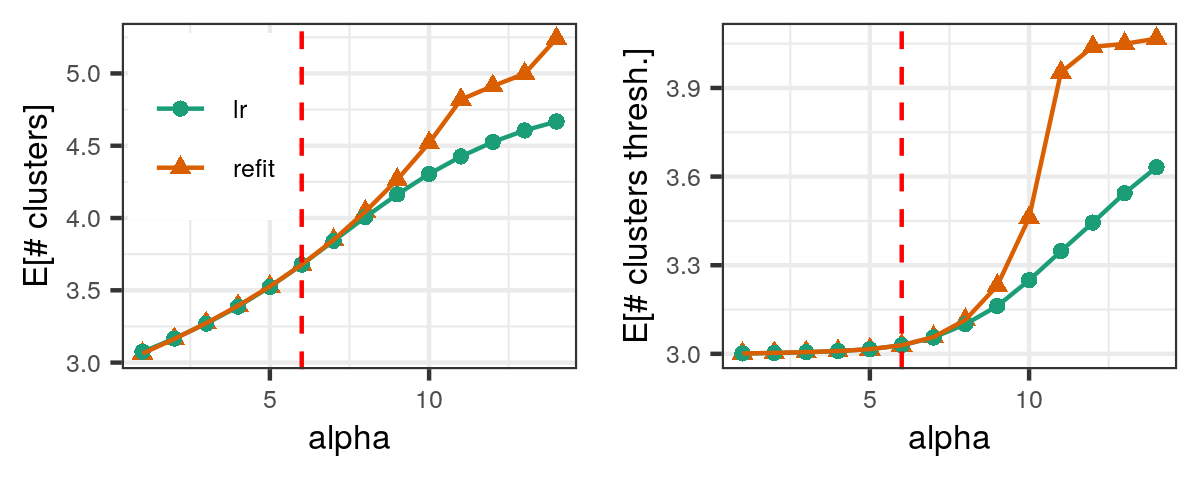
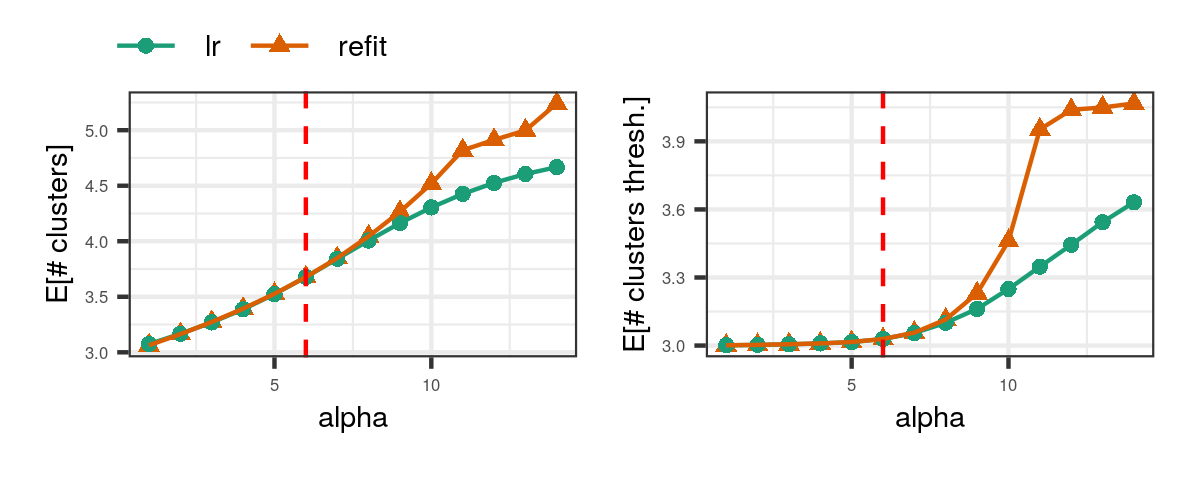
introduce patchwork package for figure layouts

diff --git a/writing/journal_paper/iris_experiments.tex b/writing/journal_paper/iris_experiments.tex
@@ -14,11 +14,33 @@
 \begin{knitrout}
 \definecolor{shadecolor}{rgb}{0.969, 0.969, 0.969}\color{fgcolor}\begin{figure}[!h]
 
-{\centering \includegraphics[width=0.98\linewidth,height=0.784\linewidth]{figure/iris_fit-1} 
+{\centering \includegraphics[width=0.588\linewidth,height=0.470\linewidth]{figure/iris_fit-1} 
 
 }
 
-\caption[The iris fit]{The iris fit.  }\label{fig:iris_fit}
+\caption[The iris data in principal component space]{The iris data in principal component space. 
+                      Colors denote inferred memberships and
+                      ellipses are estimated covariances 
+                      at $\alpha=6$.}\label{fig:iris_fit}
+\end{figure}
+
+
+\end{knitrout}
+
+
+\begin{knitrout}
+\definecolor{shadecolor}{rgb}{0.969, 0.969, 0.969}\color{fgcolor}\begin{figure}[!h]
+
+{\centering \includegraphics[width=0.980\linewidth,height=0.392\linewidth]{figure/iris_alpha_sens-1} 
+
+}
+
+\caption[The expected number of clusters in the iris data as $\alpha$ varies]{The expected number of clusters in the iris data as $\alpha$ varies. 
+We compute the linear approximation at $\alpha=6$ and
+extrapolate the expected number of clusters using the
+linear approximation (green).
+We compare against the expected number of clusters obtained by refitting the model at each $\alpha$ (orange). 
+}\label{fig:iris_alpha_sens}
 \end{figure}
 
 
@@ -29,22 +51,7 @@
 \begin{knitrout}
 \definecolor{shadecolor}{rgb}{0.969, 0.969, 0.969}\color{fgcolor}\begin{figure}[!h]
 
-{\centering \includegraphics[width=0.98\linewidth,height=0.392\linewidth]{figure/iris_alpha_sens-1} 
-
-}
-
-\caption[iris alpha sensitivity ]{iris alpha sensitivity }\label{fig:iris_alpha_sens}
-\end{figure}
-
-
-\end{knitrout}
-
-
-
-\begin{knitrout}
-\definecolor{shadecolor}{rgb}{0.969, 0.969, 0.969}\color{fgcolor}\begin{figure}[!h]
-
-{\centering \includegraphics[width=0.98\linewidth,height=1.098\linewidth]{./R_scripts/iris/figures_tmp/iris_func_pert} 
+{\centering \includegraphics[width=0.980\linewidth,height=1.176\linewidth]{figure/iris_fsens-1} 
 
 }
 

diff --git a/writing/journal_paper/main.tex b/writing/journal_paper/main.tex
@@ -116,7 +116,7 @@ This is an abstract
 
 \section{Results}
 
-\subsection{Gaussian mixture modeling on Iris data}
+\subsection{Gaussian mixture modeling on iris data}
 \input{iris_experiments.tex}
 
 \subsection{Regression mixture modeling}
